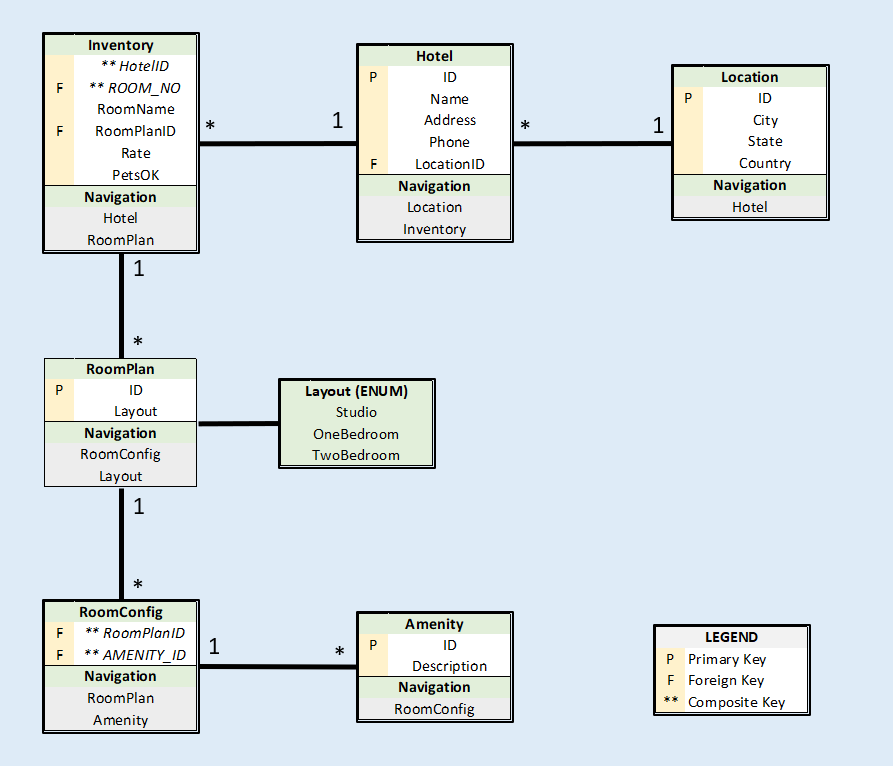
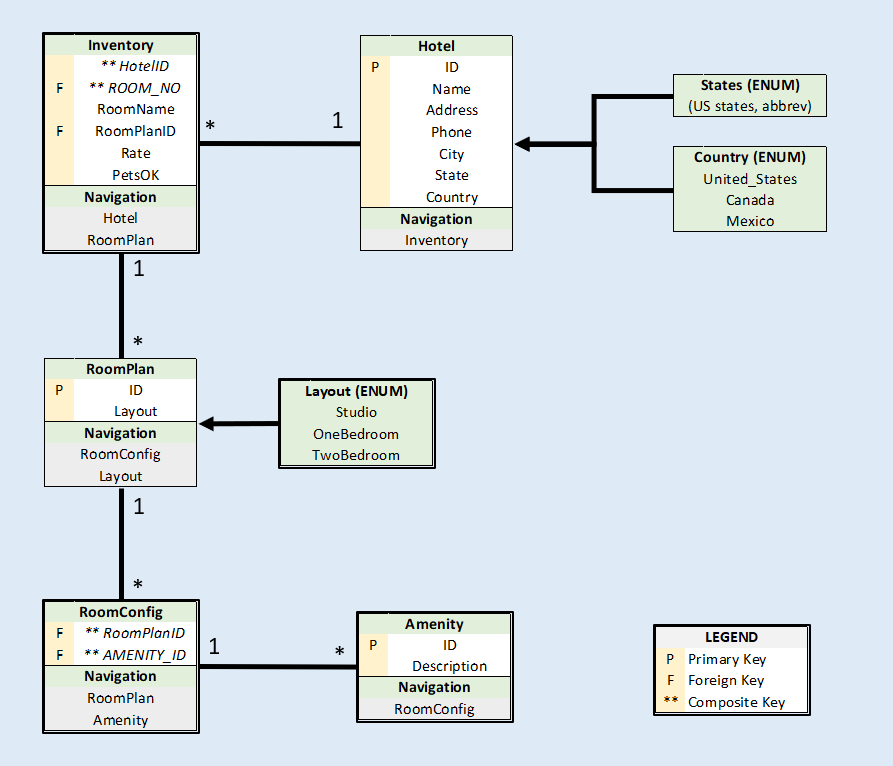
completed README for lab13 feature set

diff --git a/AsyncInn/Controllers/RoomPlanController.cs b/AsyncInn/Controllers/RoomPlanController.cs
@@ -14,18 +14,29 @@ namespace AsyncInn.Controllers
     {
         private readonly AsyncInnDbContext _context;
 
+        /// <summary>
+        /// build controller object
+        /// </summary>
+        /// <param name="context"></param>
         public RoomPlanController(AsyncInnDbContext context)
         {
             _context = context;
         }
 
-        // GET: RoomPlan
+        /// <summary>
+        /// GET: RoomPlan/Index
+        /// </summary>
+        /// <returns> RoomPlan view loaded with RoomPlan table data </returns>
         public async Task<IActionResult> Index()
         {
             return View(await _context.RoomPlan.ToListAsync());
         }
 
-        // GET: RoomPlan/Details/5
+        /// <summary>
+        /// GET: RoomPlan/Details/{id}
+        /// </summary>
+        /// <param name="id"> RoomPlan row ID number </param>
+        /// <returns> RoomPlan view loaded with RoomPlan table data (single row) </returns>
         public async Task<IActionResult> Details(int? id)
         {
             if (id == null)
@@ -43,15 +54,20 @@ namespace AsyncInn.Controllers
             return View(roomPlan);
         }
 
-        // GET: RoomPlan/Create
+        /// <summary>
+        /// GET: RoomPlan/Create
+        /// </summary>
+        /// <returns> RoomPlan/Create view </returns>
         public IActionResult Create()
         {
             return View();
         }
 
-        // POST: RoomPlan/Create
-        // To protect from overposting attacks, please enable the specific properties you want to bind to, for 
-        // more details see http://go.microsoft.com/fwlink/?LinkId=317598.
+        /// <summary>
+        /// POST: RoomPlan/Create
+        /// </summary>
+        /// <param name="roomPlan"> RoomPlan object </param>
+        /// <returns> RoomPlan/Create view loaded with single RoomPlan object </returns>
         [HttpPost]
         [ValidateAntiForgeryToken]
         public async Task<IActionResult> Create([Bind("ID,Layout")] RoomPlan roomPlan)
@@ -65,58 +81,11 @@ namespace AsyncInn.Controllers
             return View(roomPlan);
         }
 
-        // GET: RoomPlan/Edit/5
-        public async Task<IActionResult> Edit(int? id)
-        {
-            if (id == null)
-            {
-                return NotFound();
-            }
-
-            var roomPlan = await _context.RoomPlan.FindAsync(id);
-            if (roomPlan == null)
-            {
-                return NotFound();
-            }
-            return View(roomPlan);
-        }
-
-        // POST: RoomPlan/Edit/5
-        // To protect from overposting attacks, please enable the specific properties you want to bind to, for 
-        // more details see http://go.microsoft.com/fwlink/?LinkId=317598.
-        [HttpPost]
-        [ValidateAntiForgeryToken]
-        public async Task<IActionResult> Edit(int id, [Bind("ID,Layout")] RoomPlan roomPlan)
-        {
-            if (id != roomPlan.ID)
-            {
-                return NotFound();
-            }
-
-            if (ModelState.IsValid)
-            {
-                try
-                {
-                    _context.Update(roomPlan);
-                    await _context.SaveChangesAsync();
-                }
-                catch (DbUpdateConcurrencyException)
-                {
-                    if (!RoomPlanExists(roomPlan.ID))
-                    {
-                        return NotFound();
-                    }
-                    else
-                    {
-                        throw;
-                    }
-                }
-                return RedirectToAction(nameof(Index));
-            }
-            return View(roomPlan);
-        }
-
-        // GET: RoomPlan/Delete/5
+        /// <summary>
+        /// GET: RoomPlan/Delete/5
+        /// </summary>
+        /// <param name="id"> RoomPlan row ID number </param>
+        /// <returns> RoomPlan/Delete view loaded with chosen RoomPlan object </returns>
         public async Task<IActionResult> Delete(int? id)
         {
             if (id == null)
@@ -134,7 +103,11 @@ namespace AsyncInn.Controllers
             return View(roomPlan);
         }
 
-        // POST: RoomPlan/Delete/5
+        /// <summary>
+        /// POST: RoomPlan/Delete/5
+        /// </summary>
+        /// <param name="id"></param>
+        /// <returns> redirect to RoomPlan Index </returns>
         [HttpPost, ActionName("Delete")]
         [ValidateAntiForgeryToken]
         public async Task<IActionResult> DeleteConfirmed(int id)
@@ -145,6 +118,11 @@ namespace AsyncInn.Controllers
             return RedirectToAction(nameof(Index));
         }
 
+        /// <summary>
+        /// checks whether a RoomPlan exists in DB
+        /// </summary>
+        /// <param name="id"> ID of RoomPlan to check </param>
+        /// <returns> true if exists, false if not </returns>
         private bool RoomPlanExists(int id)
         {
             return _context.RoomPlan.Any(e => e.ID == id);

diff --git a/AsyncInn/Startup.cs b/AsyncInn/Startup.cs
@@ -16,13 +16,19 @@ namespace AsyncInn
 
         public IConfiguration Configuration { get; set; }
 
+        /// <summary>
+        /// Constructs startup object and maps Configuration
+        /// </summary>
+        /// <param name="configuration"> config properties set </param>
         public Startup(IConfiguration configuration)
         {
             Configuration = configuration;
         }
 
-        // This method gets called by the runtime. Use this method to add services to the container.
-        // For more information on how to configure your application, visit https://go.microsoft.com/fwlink/?LinkID=398940
+        /// <summary>
+        /// loads required dependencies and database build instructions (context and conn string)
+        /// </summary>
+        /// <param name="services"> collection of service descriptors </param>
         public void ConfigureServices(IServiceCollection services)
         {
             services.AddMvc();
@@ -32,7 +38,11 @@ namespace AsyncInn
 
         }
 
-        // This method gets called by the runtime. Use this method to configure the HTTP request pipeline.
+        /// <summary>
+        /// configures HTTP request pipeline
+        /// </summary>
+        /// <param name="app"> mechanisms to configure request pipeline </param>
+        /// <param name="env"> defn of hosting environment </param>
         public void Configure(IApplicationBuilder app, IHostingEnvironment env)
         {
             if (env.IsDevelopment())

diff --git a/AsyncInn/Data/AsyncInnDbContext.cs b/AsyncInn/Data/AsyncInnDbContext.cs
@@ -9,12 +9,20 @@ namespace AsyncInn.Data
 {
     public class AsyncInnDbContext : DbContext
     {
-
+        /// <summary>
+        /// builds derived DbContext
+        /// </summary>
+        /// <param name="options"></param>
         public AsyncInnDbContext(DbContextOptions<AsyncInnDbContext> options) : base(options)
         {
 
         }
 
+        /// <summary>
+        /// overrides (DbContext virtual) method that builds out basic API structure
+        /// maps composite keys
+        /// </summary>
+        /// <param name="modelBuilder">  </param>
         protected override void OnModelCreating(ModelBuilder modelBuilder)
         {
             // Build composite key for amenity groups

diff --git a/AsyncInn/Controllers/HomeController.cs b/AsyncInn/Controllers/HomeController.cs
@@ -8,6 +8,10 @@ namespace AsyncInn.Controllers
 {
     public class HomeController : Controller
     {
+        /// <summary>
+        /// GET: Home/Index
+        /// </summary>
+        /// <returns> loads Home/Index view </returns>
         public IActionResult Index()
         {
             return View();

diff --git a/README.md b/README.md
@@ -1,10 +1,5 @@
- Potentially unfamiliar terms link to informative sources
- Extensive API documentation
- Caveats and limitations mentioned up-front
-
-
 # AsyncInn
-This ASP.NET Core web application is a full-CRUD SQL Server based room 'inventory' management system for a fictional hotel chain. 
+This ASP.NET Core MVC web application is a full-CRUD SQL Server based room 'inventory' management system for a fictional hotel chain. 
 
 # Installation
 1. Clone this repo.
@@ -16,20 +11,54 @@ This ASP.NET Core web application is a full-CRUD SQL Server based room 'inventor
 4. Launch page by pressing green arrow in 'Standard' toolbar with 'IIS Express' selected.
 
 # Architecture
-MODEL
+MODEL - The classes define the data model. They are built to the database schema.  See "Database Schema" below for more detail.
 
+VIEW - This application uses Razor syntax to inject model data into HTML view templates.
 
-VIEWS
+CONTROLLER - Controllers exist for the splash page ('Home') and each (non-enum) table listed in the database schema. Each contains CRUD features to permit all allowed database data manipulation (some CRUD features are excluded for to support business rules (such as editing an amenity)).
 
+## Database Schema
+Inventory
+This table lists every room available in the entire Async Inn network of hotels. Each record in this table assigns a RoomConfig to a Hotel, and it sets location- and room-specific rules (such as room number, pricing, pets policy, and locally relevant room name). Rooms are identified by composite of HotelID and RoomNumber.
 
-CONTROLLERS
+RoomPlan
+This table groups a RoomConfig (ie – collection of amenities) to Layout and assigns that configuration to primary key RoomPlanID for reference in the Inventory table.
 
+RoomConfig
+This table associates amenities (AmenityID) to RoomPlan to fully configure a room. It is strictly intended to relate the room configurations to the amenities (ie – pure join), so it does not assign a unique identifier to each record.
 
-# Database Schema
+Amenity
+This table lists available room amenities and gives them unique identifiers (AmenityID). It is referenced by RoomConfig table to build up room configurations.
+
+Hotel
+This table identifies unique hotels and assigns them unique identifiers (primary = HOTEL_ID). It associates location name, address, and region (LOC_ID) details for each. The primary key is referenced by the Inventory table to associate specific rooms to locations.
+
+Layouts (Enum)
+This table standardizes nomenclature for the 3 available room formats (1-bedroom, 2-bedroom, studio), which is referenced by RoomPlan to associate with room configurations. 
+States (Enum), Country (Enum)
+This table standardizes abbreviations for states and relevant countries in the US for use in identifying locations in Hotel.
+
 ![database schema](assets/schema.png)
 
 # Usage
-![???](assets/???.png)
+Shown below are landing (default) pages for each table's interface.
+Home/Index:
+![home page](assets/run-home.png)
+
+Inventory/Index:
+![home page](assets/run-inventory.png)
+
+RoomPlan/Index:
+![home page](assets/run-roomplan.png)
+
+RoomConfig/Index:
+![home page](assets/run-roomconfig.png)
+
+Amenity/Index;
+![home page](assets/run-amenity.png)
+
+Hotel/Index;
+![home page](assets/run-hotel.png)
 
 
 # Credit
